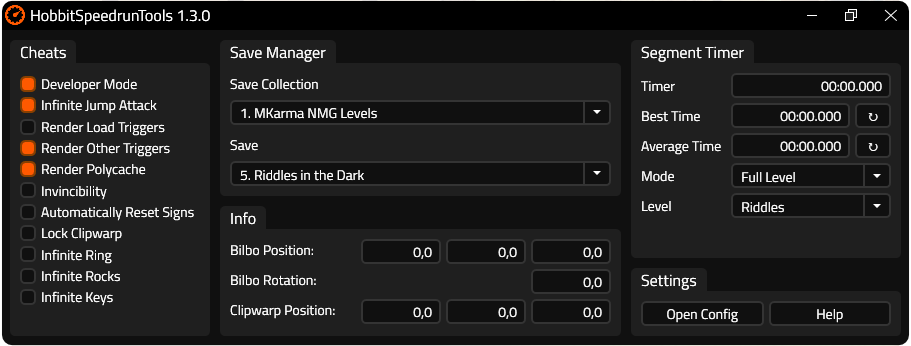
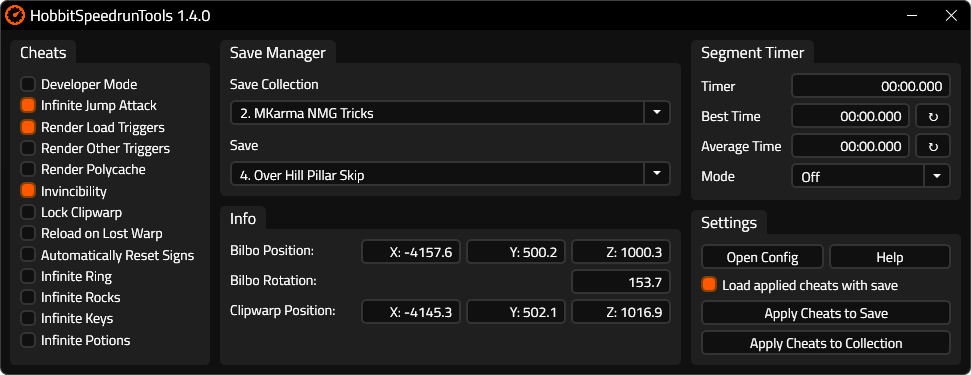
Updated README

diff --git a/README.md b/README.md
@@ -22,6 +22,7 @@
   - [General usage](#general-usage)
   - [Shortcuts](#shortcuts)
   - [Adding saves](#adding-saves)
+  - [Applying cheats to saves](#applying-cheats-to-saves)
 - [Download](#download)
 - [Warning](#warning)
 - [Acknowledgements](#acknowledgements)
@@ -64,7 +65,7 @@ This tool is made to effeciently practice for The Hobbit speedruns by providing 
 
 ## General usage
 
-Start the program and The Hobbit. Tick any of the checkboxes of the cheats you might want and select any save collection and save combination you might want. Everything else is automatic. Have a look at [shortcuts](#shortcuts) for useful shortcuts that 
+Start the program and The Hobbit. Tick any of the checkboxes of the cheats you might want and select any save collection and save combination you might want. Everything else is automatic. Hover your cursor over any cheat to see a description and the assigned hotkey.
 
 To use fly mode you'll have to enable developer mode and hit CTRL + F in game. When flying you can hold N to clip through objects. Unfortunately this isn't rebindable as it's all programmed to work together this way in the game itself.
 
@@ -84,8 +85,7 @@ The default shortcuts are as follows:
 | Ctrl & 4        | Toggle Render Other Triggers |
 | Ctrl & 5        | Toggle Render Polycache      |
 | Ctrl & 6        | Toggle Invincibility         |
-| Ctrl & 7        | Toggle Auto Reset Signs      |
-| Ctrl & 8        | Toggle Lock Clipwarp         |
+| Ctrl & 7        | Toggle Lock Clipwarp         |
 | Ctrl & R        | Reload Save                  |
 | Ctrl & T        | Restart Level                |
 | Ctrl & G        | Trigger Clipwarp             |
@@ -104,7 +104,15 @@ To add your own saves to the save manager follow the following steps:
 3. Move your saves into your newly created folder with the following format: `[Number]. [Save Name].hobbit`  
    _The number should be the position that you want the save to appear in, a lower number will appear closer to the top, but make sure every number is only used once._
 
-**Note**: Make sure that only the `.hobbit` files are located within your new folder. Any other files might have unexpected results.
+**Note**: Make sure that only the `.hobbit` files and possibly a `savesettings.json` file are located within your new folder. Any other files might have unexpected results.
+
+## Applying cheats to saves
+
+Applying cheats to your saves will make it so, when enabled, loading a specific save will also enable whatever cheats you want automatically. This also includes your clipwarp position if Lock Clipwarp or Reload on Lost Warp were to be enabled.
+
+To use this simply tick the "Load applied cheats with save" box in the settings panel and if you load a save that has cheats applied they will be enabled when you switch to that save.
+
+To apply your own cheats you should select your save you want to apply your cheats to, toggle all the cheats you'd like and hit the "Apply Cheats to Save" button in the settings panel. You may also choose to apply these cheats to all the saves in the collection, in which case you can click the "Apply Cheats to Collection" button.
 
 # Download
 
@@ -118,6 +126,7 @@ Currently new saves that are made while the save manager is active will be disca
 
 # Acknowledgements
 
+- [Shockster](https://github.com/Shockster218) For contributing the "Apply Cheats to Save" system and helping with the "Reload on Lost Warp" cheat
 - [Erfg12's Memory.dll](https://github.com/erfg12/memory.dll/) used for reading and writing to the game memory
 - [NonInvasiveKeyboardHook by Kfirprods](https://github.com/kfirprods/NonInvasiveKeyboardHook) used for assigning global hotkeys
 - [ini-parser by Rickyah](https://github.com/rickyah/ini-parser) used to read and write to the config file
